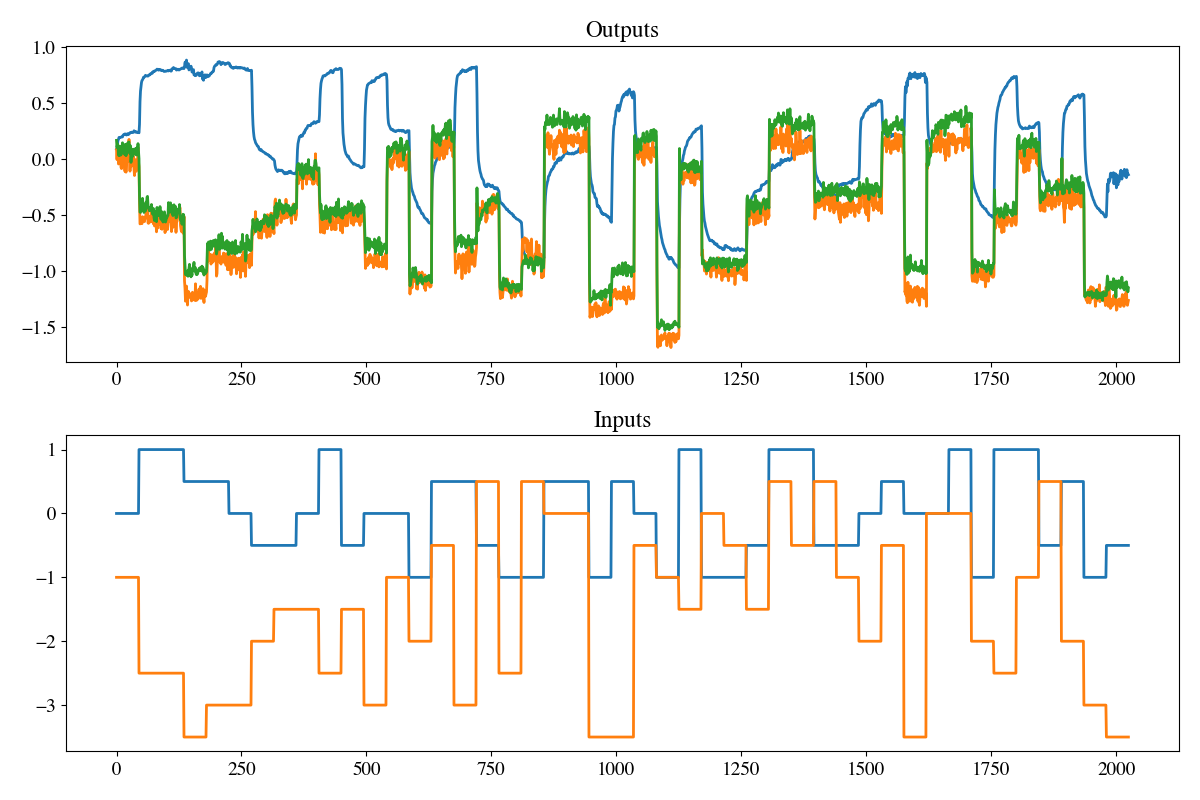
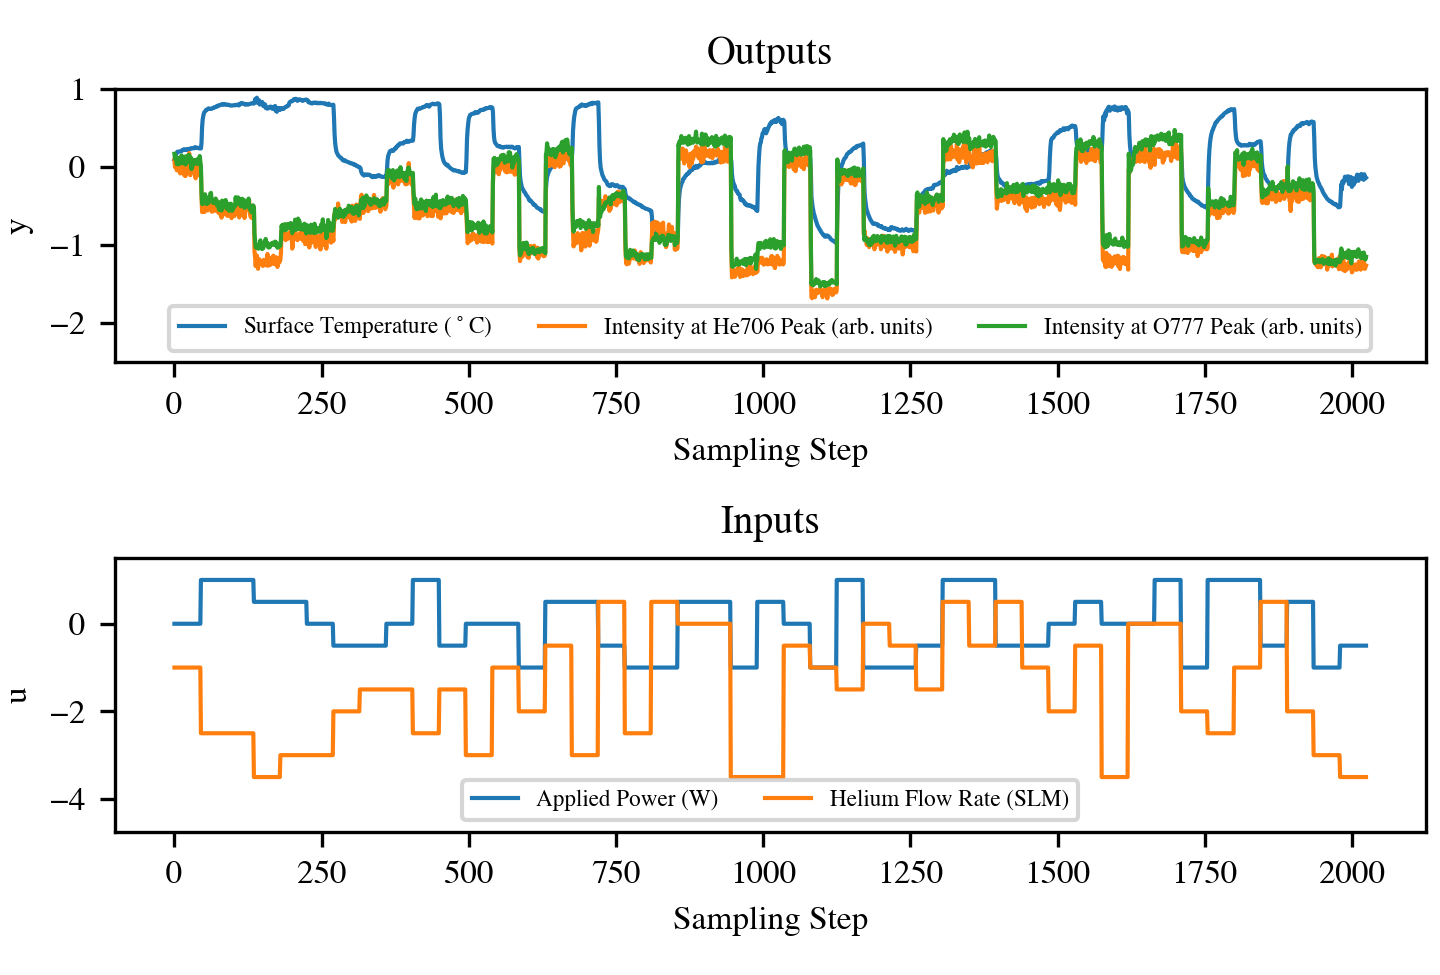
final update for experimental results

diff --git a/OffsetFreeFilter/save4sysID.py b/OffsetFreeFilter/save4sysID.py
@@ -2,14 +2,15 @@ import sys
 sys.dont_write_bytecode = True
 import numpy as np
 import matplotlib.pyplot as plt
+from mpl_toolkits.axes_grid1.inset_locator import inset_axes
 from scipy.io import savemat
 
-save_file = True
+save_file = False
 filepath = './ExperimentalData/2023_08_21_17h31m03s/Backup/OL_data_0.npy'
 timestamp = filepath[19:39]
 print(timestamp)
-Fontsize = 14 # default font size for plots
-Lwidth = 2 # default line width for plots
+Fontsize = 8 # default font size for plots
+Lwidth = 1 # default line width for plots
 
 ## plotting setup
 lines = {'linewidth' : Lwidth}
@@ -34,11 +35,28 @@ Pplot = exp_data['Psave']
 qplot = exp_data['qSave']
 specData = exp_data['specSave']
 specDataRaw = specData + exp_data['meanShiftSave'].reshape(-1,1)
+wavelengths = exp_data['waveSave'][1000,20:]
+
+fig, ax = plt.subplots(1,1,dpi=300,figsize=(6,3))
+axins = inset_axes(ax, width="15%", height="50%",
+                   bbox_to_anchor=(.395, .5, .6, .5),
+                   bbox_transform=ax.transAxes, loc=3)
+axins2 = inset_axes(ax, width="15%", height="50%",
+                   bbox_to_anchor=(.65, .445, .6, .5),
+                   bbox_transform=ax.transAxes, loc=3)
+mask = (wavelengths >= 704.0) & (wavelengths <= 710.0)
+mask2 = (wavelengths >= 774.0) & (wavelengths <= 781.0)
+
+ax.plot(wavelengths, specDataRaw[1000,20:], label='Raw', color='c')
 
 # subtract a constant mean shift rather than a different one per time
 avg_meanShift = np.mean(exp_data['meanShiftSave'])
 processing_info['mean_shift'] = avg_meanShift
 specData = specDataRaw - avg_meanShift
+
+ax.plot(wavelengths, specData[1000,20:], label='Zeroed', color='m', alpha=0.7, ls='--')
+axins.plot(wavelengths[mask], specData[1000,20:][mask], color='m', alpha=0.7, ls='--')
+axins2.plot(wavelengths[mask2], specData[1000,20:][mask2], color='m', alpha=0.7, ls='--')
 
 # grab desired peaks
 I706idx = 1014
@@ -52,6 +70,29 @@ background = np.mean(specData[:nbackground,:],axis=0)
 print(background.shape)
 processing_info['background'] = background
 specData = specData - background
+
+ax.plot(wavelengths, background[20:], label='Background', color='b')
+axins.plot(wavelengths[mask], background[20:][mask], color='b')
+axins2.plot(wavelengths[mask2], background[20:][mask2], color='b')
+
+ax.plot(wavelengths, specData[1000,20:], label='Zeroed + Background Removed', alpha=0.7, color='g')
+axins.plot(wavelengths[mask], specData[1000,20:][mask], color='g', alpha=0.7)
+axins2.plot(wavelengths[mask2], specData[1000,20:][mask2], color='g', alpha=0.7)
+axins.set_title('He706 Peak')
+axins2.set_title('O777 Peak')
+for a in [axins, axins2]:
+    (a.title).set_fontsize(7)
+    xtick_labels = a.get_xticklabels()
+    for item in xtick_labels:
+        item.set_fontsize(6)
+    ytick_labels = a.get_yticklabels()
+    for item in ytick_labels:
+        item.set_fontsize(6)
+
+ax.legend(loc='upper right', fontsize='x-small')
+ax.set_ylabel('Intensity (arb. units)')
+ax.set_xlabel('Wavelength (nm)')
+plt.tight_layout()
 
 # remove background from data
 Tplot = Tplot[nbackground:]
@@ -73,11 +114,17 @@ u = np.vstack((Pplot, qplot))
 u_min = np.min(u, axis=1)
 u_max = np.max(u, axis=1)
 
-fig, axes = plt.subplots(2,1, figsize=(12,8))
+fig, axes = plt.subplots(2,1, figsize=(10,3), sharex=True, dpi=300)
 axes[0].plot(y.T)
 axes[0].set_title('Outputs')
+axes[0].legend(['Surface Temperature ('+r'$^\circ$'+' C)', 'Intensity at He706 Peak (arb. units)', 'Intensity at O777 Peak (arb. units)'], fontsize='x-small')
+axes[0].set_ylabel('y')
 axes[1].plot(u.T)
 axes[1].set_title('Inputs')
+axes[1].legend(['Applied Power (W)', 'Helium Flow Rate (SLM)'])
+axes[1].set_xlabel('Sampling Step')
+axes[1].set_ylabel('u')
+fig.suptitle('Before Subtracting Nominal Steady State')
 plt.tight_layout()
 
 yss = np.mean(y[:, :n_steady_state], axis=1)
@@ -93,11 +140,20 @@ u = u[:,n_steady_state:] - uss.reshape(-1,1)
 processing_info['y'] = y
 processing_info['u'] = u
 
-fig, axes = plt.subplots(2,1, figsize=(12,8))
+fig, axes = plt.subplots(2,1, figsize=(12,3.25), dpi=300)
 axes[0].plot(y.T)
 axes[0].set_title('Outputs')
+axes[0].legend(['Surface Temperature ('+r'$^\circ$'+'C)', 'Intensity at He706 Peak (arb. units)', 'Intensity at O777 Peak (arb. units)'], fontsize='x-small', ncol=3, loc='lower center')
+axes[0].set_xlabel('Sampling Step')
+axes[0].set_ylabel('y')
+axes[0].set_ylim([-2.5, 1.0])
 axes[1].plot(u.T)
 axes[1].set_title('Inputs')
+axes[1].legend(['Applied Power (W)', 'Helium Flow Rate (SLM)'], fontsize='x-small', ncol=2, loc='lower center')
+axes[1].set_xlabel('Sampling Step')
+axes[1].set_ylabel('u')
+axes[1].set_ylim([-4.75, 1.5])
+# fig.suptitle('Processed Data for System Identification')
 plt.tight_layout()
 
 if save_file:

diff --git a/OffsetFreeFilter/plot_data_detail.py b/OffsetFreeFilter/plot_data_detail.py
@@ -12,6 +12,7 @@ processing_info = loadmat(processing_info_file)
 
 # experiment switch
 experiment_name = 'off center' # options: ['no filter', 'center', 'off center']
+experiment_time = 'afternoon' # options: ['morning', 'afternoon']
 
 
 font_size = 14  # custom default font size for plots
@@ -59,6 +60,9 @@ def plot_data(filepaths, mpc_type, processing_info, fig_objs=None):
     spec_datas = [exp_data['specSave'] for exp_data in exp_datas]
     I706_datas = np.vstack([np.ravel(specData[:,I706idx]) for specData in spec_datas])
     I777_datas = np.vstack([np.ravel(specData[:,I777idx]) for specData in spec_datas])
+    Ymeas_datas = [exp_data['Ymeas'] for exp_data in exp_datas]
+    I706_datas = np.vstack([Ymeas[1,:-1] for Ymeas in Ymeas_datas])
+    I777_datas = np.vstack([Ymeas[2,:-1] for Ymeas in Ymeas_datas])
 
     meanT = np.ravel(np.mean(T_datas, axis=0))
     meanI706 = np.ravel(np.mean(I706_datas, axis=0))
@@ -151,44 +155,88 @@ def plot_data(filepaths, mpc_type, processing_info, fig_objs=None):
 # no filter
 if experiment_name == 'no filter':
     OD_value = 'no filter'
-    nominal_timestamps = [
-        '2023_08_23_10h05m43s',
-        '2023_08_23_10h10m23s',
-        '2023_08_23_10h15m04s',
-    ]
-    offset_timestamps = [
-        '2023_08_23_10h21m22s',
-        '2023_08_23_10h26m01s',
-        '2023_08_23_10h32m05s',
-    ]
+    if experiment_time == 'morning':
+        # morning
+        nominal_timestamps = [
+            '2023_08_23_10h05m43s',
+            '2023_08_23_10h10m23s',
+            '2023_08_23_10h15m04s',
+        ]
+        offset_timestamps = [
+            '2023_08_23_10h21m22s',
+            '2023_08_23_10h26m01s',
+            '2023_08_23_10h32m05s',
+        ]
+    elif experiment_time == 'afternoon':
+        # afternoon
+        nominal_timestamps = [
+            '2023_08_23_15h45m53s',
+            '2023_08_23_15h50m50s',
+            '2023_08_23_15h55m48s',
+        ]
+        offset_timestamps = [
+            '2023_08_23_16h01m22s',
+            '2023_08_23_16h05m58s',
+            '2023_08_23_16h11m00s',
+        ]
 
 # center
 elif experiment_name == 'center':
     OD_value = 'center'
-    nominal_timestamps = [
-        '2023_08_23_10h52m51s',
-        '2023_08_23_10h57m44s',
-        '2023_08_23_11h02m24s',
-    ]
-    offset_timestamps = [
-        '2023_08_23_11h08m47s',
-        '2023_08_23_11h13m25s',
-        '2023_08_23_11h18m06s',
-    ]
+    # morning
+    if experiment_time == 'morning':
+        nominal_timestamps = [
+            '2023_08_23_10h52m51s',
+            '2023_08_23_10h57m44s',
+            '2023_08_23_11h02m24s',
+        ]
+        offset_timestamps = [
+            '2023_08_23_11h08m47s',
+            '2023_08_23_11h13m25s',
+            '2023_08_23_11h18m06s',
+        ]
+
+    # afternoon
+    elif experiment_time == 'afternoon':
+        nominal_timestamps = [
+            '2023_08_23_16h22m06s',
+            '2023_08_23_16h26m47s',
+            '2023_08_23_16h32m21s',
+        ]
+        offset_timestamps = [
+            '2023_08_23_16h36m48s',
+            '2023_08_23_16h41m20s',
+            '2023_08_23_16h46m08s',
+        ]
 
 # ~1 cm off center
 elif experiment_name == 'off center':
     OD_value = '~1 cm off center'
-    nominal_timestamps = [
-        '2023_08_23_11h36m40s',
-        '2023_08_23_11h41m19s',
-        '2023_08_23_11h45m59s',
-    ]
-    offset_timestamps = [
-        '2023_08_23_11h50m40s',
-        '2023_08_23_11h56m39s',
-        '2023_08_23_12h01m36s',
-    ]
+    # morning
+    if experiment_time == 'morning':
+        nominal_timestamps = [
+            '2023_08_23_11h36m40s',
+            '2023_08_23_11h41m19s',
+            '2023_08_23_11h45m59s',
+        ]
+        offset_timestamps = [
+            '2023_08_23_11h50m40s',
+            '2023_08_23_11h56m39s',
+            '2023_08_23_12h01m36s',
+        ]
+
+    # afternoon
+    elif experiment_time == 'afternoon':
+        nominal_timestamps = [
+            '2023_08_23_16h59m26s',
+            '2023_08_23_17h04m04s',
+            '2023_08_23_17h08m37s',
+        ]
+        offset_timestamps = [
+            '2023_08_23_17h14m20s',
+            '2023_08_23_17h19m07s',
+            '2023_08_23_17h24m26s',
+        ]
 
 ## Plot Nominal
 filepaths = [f'./ExperimentalData/{t}/Backup/Experiment_0.npy' for t in nominal_timestamps]

diff --git a/OffsetFreeFilter/utils/simulation.py b/OffsetFreeFilter/utils/simulation.py
@@ -131,12 +131,28 @@ class Simulation():
                 def filter_func(t, filter_val_init=filter_val):
                     if t<= 120:
                         return filter_val_init
+                    elif t<= 240:
+                        return filter_val_init*0.95
+                    elif t<= 360:
+                        return filter_val_init*0.9
+                    elif t<= 480:
+                        return filter_val_init*0.85
+                    elif t<= 600:
+                        return filter_val_init*0.8
+                    elif t<= 720:
+                        return filter_val_init*0.75
+                    elif t<= 840:
+                        return filter_val_init*0.7
+                    elif t<= 960:
+                        return filter_val_init*0.65
                     else:
-                        val = (0.5-1.0)/(480-120)*t + 7.0/6
-                        if val >= 0.5:
-                            return val
-                        else:
-                            return 0.5
+                        return 0.6
+                    # else:
+                    #     val = (0.5-1.0)/(480-120)*t + 7.0/6
+                    #     if val >= 0.5:
+                    #         return val
+                    #     else:
+                    #         return 0.5
 
         if multistage:
             Wset = self.prob_info['Wset']

diff --git a/OffsetFreeFilter/run_sim.py b/OffsetFreeFilter/run_sim.py
@@ -89,16 +89,16 @@ axes[0,0].plot(np.arange(len(Tref))*ts, Tref, 'k--', label='Reference')
 axes[0,0].axhline(x_max[0]+xss[0], color='r', ls='--', label='Maximum')
 axes[0,0].plot(np.arange(len(Tplot))*ts, Tplot, label='Nominal')
 axes[0,0].set_xlabel('Time (s)')
-axes[0,0].set_ylabel(r'Surface Temperature ($^\circ C$)')
+axes[0,0].set_ylabel(r'Surface Temperature\n($^\circ C$)')
 
 axes[0,1].plot(np.arange(len(I706ref))*ts, I706ref, 'k--', label='Reference')
 axes[0,1].plot(np.arange(len(I706))*ts, I706, label='Nominal')
 axes[0,1].set_xlabel('Time (s)')
-axes[0,1].set_ylabel('Intensity at He 706 nm (arb. units)')
+axes[0,1].set_ylabel('Intensity at He706\nPeak (arb. units)')
 
 axes[1,0].plot(np.arange(len(I777))*ts, I777, label='Nominal')
 axes[1,0].set_xlabel('Time (s)')
-axes[1,0].set_ylabel('Intensity at O 777 nm (arb. units)')
+axes[1,0].set_ylabel('Intensity at O777\nPeak (arb. units)')
 
 axes[1,1].plot(np.arange(len(fval))*ts, fval)
 axes[1,1].set_xlabel('Time (s)')
